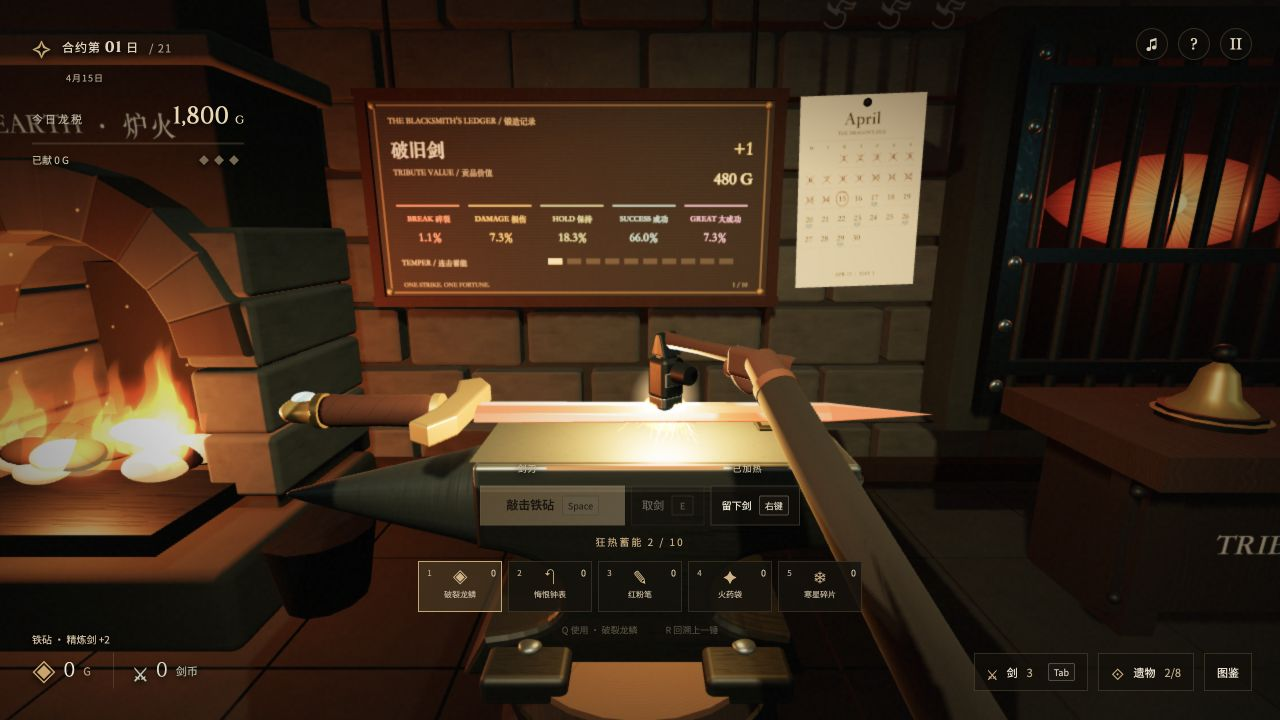
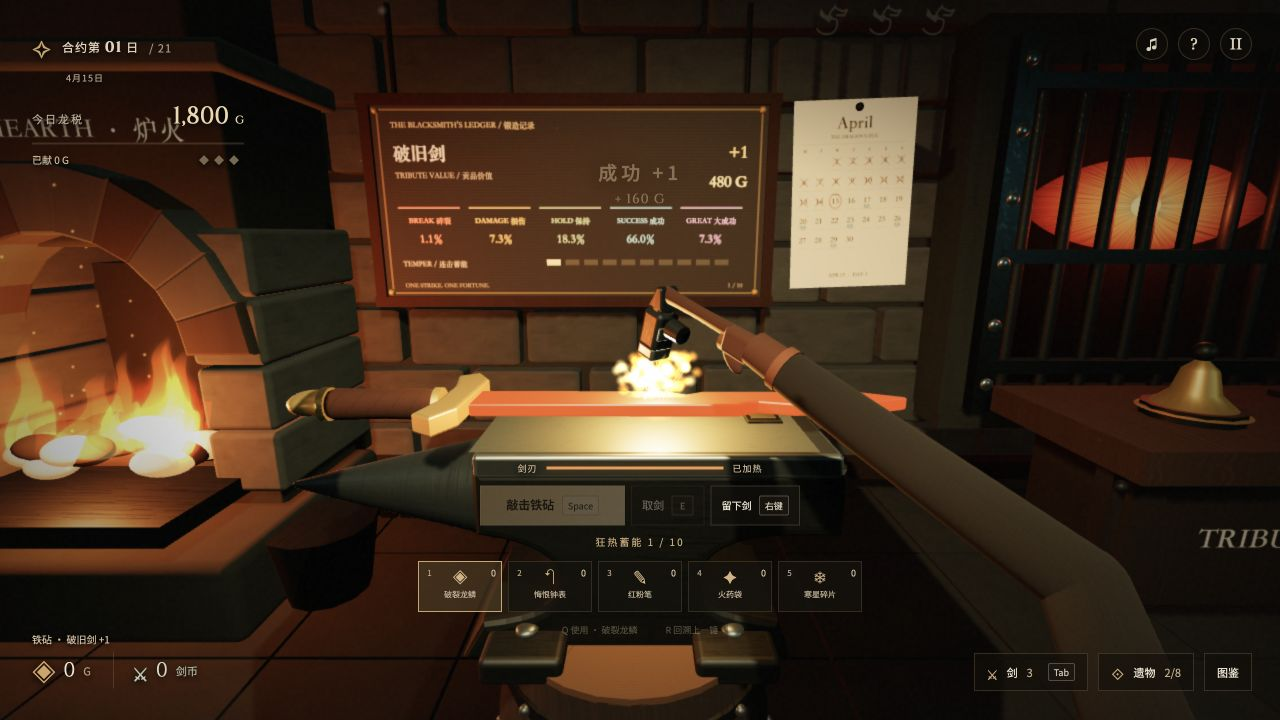
Use referenced forging strokes with fixed arm segments and a smaller rebound

diff --git a/src/workshop-motion.js b/src/workshop-motion.js
@@ -15,36 +15,63 @@ function blend(root, from, to, progress, arc=0) {
   root.quaternion.slerpQuaternions(from.quaternion,to.quaternion,t);root.scale.lerpVectors(from.scale,to.scale,t);
 }
 
-export function getHammerStrikePose({ camera, restPosition, restQuaternion, scale, origin, time, contact=.22, duration=.48 }) {
-  const rest=worldPose({parent:camera,position:restPosition,quaternion:restQuaternion,scale:new THREE.Vector3().setScalar(scale)});
+function hammerContactFrame(camera,origin,scale){
   const toPlayer=camera.getWorldPosition(new THREE.Vector3()).sub(origin);toPlayer.y=0;toPlayer.normalize();
   const right=new THREE.Vector3(1,0,0).applyQuaternion(camera.getWorldQuaternion(new THREE.Quaternion()));right.y=0;right.normalize();
   const toGrip=toPlayer.clone().addScaledVector(right,.85).normalize();
   const yaw=Math.atan2(-toGrip.z,toGrip.x),contactQuaternion=new THREE.Quaternion().setFromAxisAngle(new THREE.Vector3(0,1,0),yaw)
     .multiply(new THREE.Quaternion().setFromAxisAngle(new THREE.Vector3(0,0,1),Math.PI/2-HAMMER_HEAD.roll));
   const contactPosition=origin.clone().sub(HAMMER_FACE.clone().multiplyScalar(scale).applyQuaternion(contactQuaternion));
-  const gripOffset=q=>HAMMER_GRIP.clone().multiplyScalar(scale).applyQuaternion(q);
-  const restWrist=rest.position.clone().add(gripOffset(rest.quaternion)),contactWrist=contactPosition.clone().add(gripOffset(contactQuaternion));
-  const raisedWrist=restWrist.clone().addScaledVector(toPlayer,.045);raisedWrist.y=Math.max(restWrist.y+.14,contactWrist.y+.1);
-  const raisedQuaternion=new THREE.Quaternion().setFromAxisAngle(right,1.05).multiply(contactQuaternion);
-  let wrist,quaternion,clearance=0;
-  if(time<.1){const t=ease(time/.1);wrist=restWrist.clone().lerp(raisedWrist,t);quaternion=rest.quaternion.clone().slerp(raisedQuaternion,t);}
-  else if(time<contact){const t=ease((time-.1)/(contact-.1));wrist=raisedWrist.clone().lerp(contactWrist,t);quaternion=raisedQuaternion.clone().slerp(contactQuaternion,t);clearance=.025*(1-t);}
-  else if(time<contact+.04){wrist=contactWrist;quaternion=contactQuaternion;}
-  else {const t=ease((time-contact-.04)/(duration-contact-.04));wrist=contactWrist.clone().lerp(restWrist,t);wrist.y+=Math.sin(Math.PI*t)*.22;quaternion=contactQuaternion.clone().slerp(rest.quaternion,t);clearance=Math.sin(Math.PI*t)*.08;}
-  const position=wrist.sub(gripOffset(quaternion));
-  // Lift the complete head envelope, not just a nominal contact point.
-  const head=position.clone().add(new THREE.Vector3(...HAMMER_HEAD.position).multiplyScalar(scale).applyQuaternion(quaternion));
-  const nearBlade=ease((.55-Math.hypot(head.x-origin.x,head.z-origin.z))/.2);
-  position.y+=nearBlade*Math.max(0,origin.y+clearance-position.y-hammerHeadMinimumY(quaternion,scale));
-  camera.updateWorldMatrix(true,false);const matrix=new THREE.Matrix4().compose(position,quaternion,new THREE.Vector3().setScalar(scale)).premultiply(camera.matrixWorld.clone().invert());
-  const result={position:new THREE.Vector3(),quaternion:new THREE.Quaternion(),scale:new THREE.Vector3()};matrix.decompose(result.position,result.quaternion,result.scale);return result;
+  const contactWrist=contactPosition.clone().add(HAMMER_GRIP.clone().multiplyScalar(scale).applyQuaternion(contactQuaternion));
+  const armScale=Math.max(.75,Math.hypot(camera.position.x-origin.x,camera.position.z-origin.z)/1.87);
+  return {toGrip,contactQuaternion,contactWrist,armScale};
 }
 
-export function getHammerForearmPose(wristPosition,aspect){
-  const x=THREE.MathUtils.lerp(.4,.62,THREE.MathUtils.clamp((aspect-.9)/.65,0,1)),elbow=new THREE.Vector3(x,-.93,-.48);
-  const axis=wristPosition.clone().sub(elbow),length=axis.length();
-  return {wrist:wristPosition.clone(),elbow,length,quaternion:new THREE.Quaternion().setFromUnitVectors(new THREE.Vector3(0,1,0),axis.normalize())};
+function hammerWorkingPose({camera,scale,origin},angle,reach,lift){
+  const frame=hammerContactFrame(camera,origin,scale),axis=new THREE.Vector3(0,1,0).cross(frame.toGrip);
+  const quaternion=new THREE.Quaternion().setFromAxisAngle(axis,angle).multiply(frame.contactQuaternion);
+  const wrist=frame.contactWrist.addScaledVector(frame.toGrip,reach);wrist.y+=lift;
+  const position=wrist.sub(HAMMER_GRIP.clone().multiplyScalar(scale).applyQuaternion(quaternion));
+  // Protect the whole head envelope without flattening the stroke into a slide.
+  const head=position.clone().add(new THREE.Vector3(...HAMMER_HEAD.position).multiplyScalar(scale).applyQuaternion(quaternion));
+  const nearBlade=ease((.55-Math.hypot(head.x-origin.x,head.z-origin.z))/.2);
+  position.y+=nearBlade*Math.max(0,origin.y-position.y-hammerHeadMinimumY(quaternion,scale));
+  camera.updateWorldMatrix(true,false);const matrix=new THREE.Matrix4().compose(position,quaternion,new THREE.Vector3().setScalar(scale)).premultiply(camera.matrixWorld.clone().invert());
+  const result={position:new THREE.Vector3(),quaternion:new THREE.Quaternion(),scale:new THREE.Vector3(),armScale:frame.armScale};matrix.decompose(result.position,result.quaternion,result.scale);return result;
+}
+
+export function getHammerReadyPose(options){return hammerWorkingPose(options,.3,.025,.025);}
+
+export function getHammerStrikePose({camera,scale,origin,time,contact=.22,duration=.48}){
+  const options={camera,scale,origin};let angle,reach,lift;
+  const raise=contact*.38;
+  if(time<raise){const t=ease(time/raise);angle=.3+.6*t;reach=.025+.02*t;lift=.025+.035*t;}
+  else if(time<contact){
+    // Acceleration into contact, rather than a smoothstep that stops before impact.
+    const t=THREE.MathUtils.clamp((time-raise)/(contact-raise),0,1),remaining=1-t*t;
+    angle=.9*remaining;reach=.045*remaining;lift=.06*remaining;
+  }else{
+    const rebound=Math.min(.09,(duration-contact)*.4);
+    if(time<contact+rebound){const t=THREE.MathUtils.clamp((time-contact)/rebound,0,1),up=1-(1-t)*(1-t);angle=.38*up;reach=.03*up;lift=.03*up;}
+    else {const t=ease((time-contact-rebound)/(duration-contact-rebound));angle=.38-.08*t;reach=.03-.005*t;lift=.03-.005*t;}
+  }
+  return hammerWorkingPose(options,angle,reach,lift);
+}
+
+export function getHammerForearmPose(wristPosition,aspect,armScale=1){
+  // Perspective pullback changes view-model calibration, never a bone's length
+  // during a stroke. The elbow bends; the sleeve does not telescope.
+  const x=THREE.MathUtils.lerp(.4,.7,THREE.MathUtils.clamp((aspect-.9)/.65,0,1));
+  const shoulder=new THREE.Vector3(x,-1.05,-.46).multiplyScalar(armScale),length=.72*armScale,upperLength=.82*armScale;
+  const delta=wristPosition.clone().sub(shoulder),distance=delta.length(),axis=delta.clone().normalize();
+  const reach=THREE.MathUtils.clamp(distance,Math.abs(upperLength-length)+1e-5,upperLength+length-1e-5);
+  if(distance!==reach)shoulder.addScaledVector(axis,distance-reach);
+  const along=(upperLength*upperLength-length*length+reach*reach)/(2*reach),height=Math.sqrt(Math.max(0,upperLength*upperLength-along*along));
+  const pole=new THREE.Vector3(1,-.08,.3);pole.addScaledVector(axis,-pole.dot(axis)).normalize();
+  const elbow=shoulder.clone().addScaledVector(axis,along).addScaledVector(pole,height);
+  const forearmAxis=wristPosition.clone().sub(elbow).normalize(),upperAxis=elbow.clone().sub(shoulder).normalize(),up=new THREE.Vector3(0,1,0);
+  return {wrist:wristPosition.clone(),elbow,shoulder,length,upperLength,
+    quaternion:new THREE.Quaternion().setFromUnitVectors(up,forearmAxis),upperQuaternion:new THREE.Quaternion().setFromUnitVectors(up,upperAxis)};
 }
 
 export function getTicketFocusView(aspect, fov=66, sidePanel=false) {

diff --git a/src/workshop.js b/src/workshop.js
@@ -2,7 +2,7 @@ import * as THREE from 'three';
 import { RoundedBoxGeometry } from 'three/addons/geometries/RoundedBoxGeometry.js';
 import { createMouseLook } from './mouse-look.js';
 import { createTouchMovement } from './touch-movement.js';
-import { createWorkshopMotion, getHammerStrikePose, getHammerForearmPose, getTicketFocusView, getHeldSwordPose } from './workshop-motion.js';
+import { createWorkshopMotion, getHammerReadyPose, getHammerStrikePose, getHammerForearmPose, getTicketFocusView, getHeldSwordPose } from './workshop-motion.js';
 import { createShadowAvatar } from './shadow-avatar.js';
 import { createTicketBoard } from './ticket-board.js';
 import { createSwordRenderer } from './sword-renderer.js';
@@ -553,7 +553,11 @@ export function createWorkshop(container, callbacks = {}) {
   const sleeve = material({ color: '#353b38', map: woodTexture, roughness: 1 });
   const cuff = cylinder(forearmGroup, sleeve, .082 * .68, .104 * .68, 1, 0, 0, 0, 20);
   const wristBand = cylinder(forearmGroup, leather, .086 * .68, .087 * .68, 1, 0, 0, 0, 20);
+  const upperArmGroup = new THREE.Group(); camera.add(upperArmGroup);
+  const upperSleeve = cylinder(upperArmGroup, sleeve, .104 * .68, .13 * .68, 1, 0, 0, 0, 20);
+  const elbowJoint = sphere(upperArmGroup, sleeve, 0, 0, 0, .104 * .68); elbowJoint.castShadow = true; elbowJoint.receiveShadow = true;
   const wristPosition = new THREE.Vector3();
+  let hammerReadyBlend = 0, readyContact = null;
   hammer.position.set(.56, -.47, -.82); hammer.rotation.set(.1, -.3, -.44); hammer.scale.setScalar(.68);
   const toolFill = new THREE.PointLight('#dcc6a3', 1.5, 2.3, 1.8); toolFill.position.set(-.15, .2, -.15); camera.add(toolFill);
 
@@ -877,20 +881,46 @@ export function createWorkshop(container, callbacks = {}) {
     const toolX = THREE.MathUtils.lerp(.2, .43, THREE.MathUtils.clamp((camera.aspect - .9) / .65, 0, 1));
     hammer.position.set(toolX, -.43, -.99); hammer.rotation.set(.1, -.3, -.44);
     const swing = motion.getStrike();
-    if (swing && swing.outcome !== 'break' && swing.time >= swing.contact && swing.time < swing.contact + .04) {
+    if (swing && swing.outcome !== 'break' && swing.time >= swing.contact && swing.time <= swing.contact + .025) {
       const anvilSword = physicalSwords.get(worldState?.anvilId)?.mesh;
       const surface = findForgeContact(anvilSword || (!worldState && swordState ? swordGroup : null), { bladeMaterials: anvilSword ? null : [bladeMaterial, edgeMaterial, fullerMaterial] });
       if (surface) swing.position.copy(surface.position);
     }
-    if (swing) { const pose = getHammerStrikePose({ camera, restPosition: hammer.position, restQuaternion: hammer.quaternion, scale: .68, origin: swing.position, time: swing.time, contact: swing.contact, duration: swing.duration }); hammer.position.copy(pose.position); hammer.quaternion.copy(pose.quaternion); }
-    forearmGroup.visible = hammer.visible;
+    const forgeMode = focused === 'anvil';
+    hammerReadyBlend = forgeMode ? Math.min(1, hammerReadyBlend + dt / .18) : 0;
+    if (!forgeMode) readyContact = null;
+    let armScale = 1;
+    if (swing || forgeMode) {
+      const anvilSword = physicalSwords.get(worldState?.anvilId)?.mesh;
+      let readyPosition;
+      if (!swing && anvilSword) {
+        // Static solid geometry changes only when its visual is replaced. Cache
+        // the local surface during ready frames; every strike still raycasts fresh.
+        if (readyContact?.root !== anvilSword || readyContact.visual !== anvilSword.userData.visual) {
+          const surface = findForgeContact(anvilSword);
+          readyContact = { root: anvilSword, visual: anvilSword.userData.visual, localPoint: surface?.localPoint };
+        }
+        if (readyContact.localPoint) { anvilSword.updateWorldMatrix(true, false); readyPosition = anvilSword.localToWorld(readyContact.localPoint.clone()); }
+      } else if (!swing && !worldState && swordState) readyPosition = findForgeContact(swordGroup, { bladeMaterials: [bladeMaterial, edgeMaterial, fullerMaterial] })?.position;
+      const origin = swing?.position || readyPosition || wornFace.getWorldPosition(new THREE.Vector3());
+      const pose = swing ? getHammerStrikePose({ camera, scale: .68, origin, time: swing.time, contact: swing.contact, duration: swing.duration }) : getHammerReadyPose({ camera, scale: .68, origin });
+      const entryBlend = forgeMode ? hammerReadyBlend : 1;
+      hammer.position.lerp(pose.position, entryBlend); hammer.quaternion.slerp(pose.quaternion, entryBlend);
+      armScale = pose.armScale ?? 1;
+      if (swing) { swing.armScale ??= armScale; armScale = swing.armScale; }
+    }
+    forearmGroup.visible = upperArmGroup.visible = hammer.visible;
     if (forearmGroup.visible) {
       hammer.updateWorldMatrix(true, true); wristMarker.getWorldPosition(wristPosition); camera.worldToLocal(wristPosition);
-      const forearm = getHammerForearmPose(wristPosition, camera.aspect), gloveLength = Math.min(.11, forearm.length), sleeveLength = Math.max(.001, forearm.length - gloveLength);
+      const forearm = getHammerForearmPose(wristPosition, camera.aspect, armScale), gloveLength = Math.min(.11, forearm.length), sleeveLength = Math.max(.001, forearm.length - gloveLength);
+      const radiusScale = Math.min(1.12, armScale);
       forearmGroup.position.copy(forearm.wrist); forearmGroup.quaternion.copy(forearm.quaternion);
-      wrist.position.y = -gloveLength / 2; wrist.scale.y = gloveLength;
-      cuff.position.y = -gloveLength - sleeveLength / 2; cuff.scale.y = sleeveLength;
-      wristBand.position.y = -gloveLength; wristBand.scale.y = .042 * .68;
+      wrist.position.y = -gloveLength / 2; wrist.scale.set(radiusScale, gloveLength, radiusScale);
+      cuff.position.y = -gloveLength - sleeveLength / 2; cuff.scale.set(radiusScale, sleeveLength, radiusScale);
+      wristBand.position.y = -gloveLength; wristBand.scale.set(radiusScale, .042 * .68, radiusScale);
+      upperArmGroup.position.copy(forearm.elbow); upperArmGroup.quaternion.copy(forearm.upperQuaternion);
+      upperSleeve.position.y = -forearm.upperLength / 2; upperSleeve.scale.set(radiusScale, forearm.upperLength, radiusScale);
+      elbowJoint.scale.setScalar(.104 * .68 * radiusScale);
     }
     avatar.update({ camera, heldRoot: physicalSwords.get(worldState?.carriedId)?.mesh, hammerRoot: hammer, time: elapsed, walking });
     bodyLight.position.set(THREE.MathUtils.clamp(camera.position.x + (camera.position.x > 0 ? 1.7 : -1.7), -5.5, 5.5), 3.7, THREE.MathUtils.clamp(camera.position.z + (camera.position.z > .5 ? 1.7 : -1.7), -3.45, 4.99)); bodyLight.target.position.set(camera.position.x, .65, camera.position.z);
@@ -932,6 +962,7 @@ export function createWorkshop(container, callbacks = {}) {
   frame = requestAnimationFrame(animate);
   function dispose() {
     if (disposed) return; disposed = true; cancelAnimationFrame(frame); lookInput.dispose(); touchInput.dispose(); observer.disconnect(); listeners.forEach(remove => remove());
+    readyContact = null;
     motion.dispose(); avatar.dispose(); ticketBoard.dispose(); bodyLight.shadow.map?.dispose(); key.shadow.map?.dispose();
     swordPhysics.dispose(); physicalSwords.forEach(entry => swordRenderer.disposeInstance(entry.mesh)); clearMerchantGoods(); swordRenderer.dispose(); relicShop.dispose();
     geometries.forEach(g => g.dispose()); materials.forEach(m => m.dispose()); textures.forEach(disposeTexture); renderer.dispose(); canvas.remove(); contextNotice.remove();

diff --git a/tests/workshop-motion.test.js b/tests/workshop-motion.test.js
@@ -2,7 +2,7 @@ import test from 'node:test';
 import assert from 'node:assert/strict';
 import * as THREE from 'three';
 import {RoundedBoxGeometry} from 'three/addons/geometries/RoundedBoxGeometry.js';
-import { createWorkshopMotion, getHammerStrikePose, getHammerForearmPose, getTicketFocusView, getHeldSwordPose } from '../src/workshop-motion.js';
+import { createWorkshopMotion, getHammerReadyPose, getHammerStrikePose, getHammerForearmPose, getTicketFocusView, getHeldSwordPose } from '../src/workshop-motion.js';
 import {HAMMER_HEAD,HAMMER_FACE,HAMMER_WRIST} from '../src/hammer-frame.js';
 const pose = (parent, x, y=0, z=0) => ({ parent, position:new THREE.Vector3(x,y,z), quaternion:new THREE.Quaternion(), scale:new THREE.Vector3(1,1,1) });
 
@@ -58,12 +58,11 @@ test('the actual left hammer face points down at contact and the gripped hand st
   const grip=new THREE.Vector3(.055,-.205,.067).applyMatrix4(hammer.matrixWorld);
   assert.ok(grip.y>origin.y+.18,'hand and handle do not disappear into the anvil');
 });
-test('a thick sword does not cause the camera-held hammer to jump at the start or end of a swing',()=>{
+test('thin and thick swords start and finish at the same forging ready pose without a jump',()=>{
   const camera=new THREE.PerspectiveCamera();camera.position.set(-1.05,2.22,.95);camera.lookAt(-1.05,1.51,-2.1);
-  const restPosition=new THREE.Vector3(.43,-.43,-.99),restQuaternion=new THREE.Quaternion().setFromEuler(new THREE.Euler(.1,-.3,-.44));
-  for(const time of [0,.48]){
-    const pose=getHammerStrikePose({camera,restPosition,restQuaternion,scale:.68,origin:new THREE.Vector3(-.96,1.75,-.92),time});
-    assert.ok(pose.position.distanceTo(restPosition)<1e-7,'rest pose outside the anvil retains its position');assert.ok(pose.quaternion.angleTo(restQuaternion)<1e-7);
+  for(const y of [1.61,1.75])for(const time of [0,.48]){
+    const options={camera,scale:.68,origin:new THREE.Vector3(-.96,y,-.92)},ready=getHammerReadyPose(options),pose=getHammerStrikePose({...options,time});
+    assert.ok(pose.position.distanceTo(ready.position)<1e-7,'swing starts and finishes at the current blade working pose');assert.ok(pose.quaternion.angleTo(ready.quaternion)<1e-7);
   }
 });
 test('rounded hammer head and gripping hand stay clear of the anvil throughout desktop and portrait swings',()=>{
@@ -74,7 +73,7 @@ test('rounded hammer head and gripping hand stay clear of the anvil throughout d
     {g:new RoundedBoxGeometry(.125,.185,.085,3,.034),p:new THREE.Vector3(.055,-.205,.067),roll:-.13}
   ];
   const point=new THREE.Vector3();
-  for(const [z,toolX] of [[.95,.43],[3.3,.2]])for(const y of [1.61,1.75]){
+  for(const [z,toolX] of [[.95,.43],[3.3,.2],[4.18,.2]])for(const y of [1.61,1.75]){
     const camera=new THREE.PerspectiveCamera();camera.position.set(-1.05,2.22,z);camera.lookAt(-1.05,1.51,-2.1);camera.updateMatrixWorld();
     for(let frame=0;frame<=48;frame++){
       const t=frame/100,pose=getHammerStrikePose({camera,restPosition:new THREE.Vector3(toolX,-.43,-.99),restQuaternion:new THREE.Quaternion().setFromEuler(new THREE.Euler(.1,-.3,-.44)),scale:.68,origin:new THREE.Vector3(-.96,y,-.92),time:t});
@@ -94,20 +93,24 @@ test('rounded hammer head and gripping hand stay clear of the anvil throughout d
   }
   parts.forEach(part=>part.g.dispose());
 });
-test('independent forearm connects to the animated wrist and clears the anvil while its elbow stays offscreen',()=>{
-  const sleeve=new THREE.CylinderGeometry(.082,.104,1,20),point=new THREE.Vector3();
-  for(const [aspect,toolX,z] of [[1280/720,.43,.95],[360/800,.2,3.3]]){
+test('articulated forearm and upper arm connect at the elbow and clear the anvil while the shoulder stays offscreen',()=>{
+  const sleeve=new THREE.CylinderGeometry(.104,.13,1,20),point=new THREE.Vector3();
+  for(const [aspect,toolX,z] of [[1280/720,.43,.95],[360/800,.2,4.18]]){
     const camera=new THREE.PerspectiveCamera(66,aspect,.045,60);camera.position.set(-1.05,2.22,z);camera.lookAt(-1.05,1.51,-2.1);camera.updateMatrixWorld();
     for(let frame=0;frame<=48;frame++){
       const pose=getHammerStrikePose({camera,restPosition:new THREE.Vector3(toolX,-.43,-.99),restQuaternion:new THREE.Quaternion().setFromEuler(new THREE.Euler(.1,-.3,-.44)),scale:.68,origin:new THREE.Vector3(-.96,1.75,-.92),time:frame/100});
-      const wrist=HAMMER_WRIST.clone().applyMatrix4(new THREE.Matrix4().compose(pose.position,pose.quaternion,pose.scale)),arm=getHammerForearmPose(wrist,aspect);
-      const middle=arm.wrist.clone().add(arm.elbow).multiplyScalar(.5),matrix=new THREE.Matrix4().compose(middle,arm.quaternion,new THREE.Vector3(.68,arm.length,.68));
-      assert.ok(new THREE.Vector3(0,.5,0).applyMatrix4(matrix).distanceTo(wrist)<1e-6,'upper endpoint follows actual hand');
-      const elbow=arm.elbow.clone().applyMatrix4(camera.matrixWorld).project(camera);assert.ok(elbow.y< -1,'sleeve end is below viewport');
-      matrix.premultiply(camera.matrixWorld);
-      for(let i=0;i<sleeve.attributes.position.count;i++){
-        point.fromBufferAttribute(sleeve.attributes.position,i).applyMatrix4(matrix);
-        if(point.x> -1.575&&point.x<-.355&&point.z> -1.1875&&point.z<-.6525)assert.ok(point.y>=1.508,'forearm stays above anvil where their volumes overlap');
+      const wrist=HAMMER_WRIST.clone().applyMatrix4(new THREE.Matrix4().compose(pose.position,pose.quaternion,pose.scale)),arm=getHammerForearmPose(wrist,aspect,pose.armScale);
+      assert.ok(Math.abs(arm.wrist.distanceTo(arm.elbow)-arm.length)<1e-6,'forearm maintains its physical length');
+      assert.ok(Math.abs(arm.shoulder.distanceTo(arm.elbow)-arm.upperLength)<1e-6,'upper arm maintains its physical length');
+      const shoulder=arm.shoulder.clone().applyMatrix4(camera.matrixWorld).project(camera);assert.ok(shoulder.y< -1,'upper sleeve continues below viewport');
+      for(const [start,end,quaternion,length] of [[arm.wrist,arm.elbow,arm.quaternion,arm.length],[arm.elbow,arm.shoulder,arm.upperQuaternion,arm.upperLength]]){
+        const radiusScale=Math.min(1.12,pose.armScale),middle=start.clone().add(end).multiplyScalar(.5),matrix=new THREE.Matrix4().compose(middle,quaternion,new THREE.Vector3(.68*radiusScale,length,.68*radiusScale));
+        assert.ok(new THREE.Vector3(0,.5,0).applyMatrix4(matrix).distanceTo(start)<1e-6,'upper endpoint follows its joint');
+        matrix.premultiply(camera.matrixWorld);
+        for(let i=0;i<sleeve.attributes.position.count;i++){
+          point.fromBufferAttribute(sleeve.attributes.position,i).applyMatrix4(matrix);
+          if(point.x> -1.575&&point.x<-.355&&point.z> -1.1875&&point.z<-.6525)assert.ok(point.y>=1.508,'arm stays above anvil where their volumes overlap');
+        }
       }
     }
   }

diff --git a/tests/hammer-rhythm.test.js b/tests/hammer-rhythm.test.js
@@ -1,0 +1,42 @@
+import test from 'node:test';
+import assert from 'node:assert/strict';
+import * as THREE from 'three';
+import {getHammerStrikePose,getHammerForearmPose} from '../src/workshop-motion.js';
+import {HAMMER_FACE,HAMMER_WRIST} from '../src/hammer-frame.js';
+
+function setup(aspect=1280/720,z=.95){
+  const camera=new THREE.PerspectiveCamera(66,aspect,.045,60);camera.position.set(-1.05,2.22,z);camera.lookAt(-1.05,1.51,-2.1);camera.updateMatrixWorld();
+  const origin=new THREE.Vector3(-.96,1.62,-.92);
+  const frame=time=>{
+    const pose=getHammerStrikePose({camera,restPosition:new THREE.Vector3(.43,-.43,-.99),restQuaternion:new THREE.Quaternion().setFromEuler(new THREE.Euler(.1,-.3,-.44)),scale:.68,origin,time});
+    const local=new THREE.Matrix4().compose(pose.position,pose.quaternion,pose.scale);
+    const wrist=HAMMER_WRIST.clone().applyMatrix4(local),face=HAMMER_FACE.clone().applyMatrix4(local).applyMatrix4(camera.matrixWorld);
+    return {pose,wrist,face,arm:getHammerForearmPose(wrist,aspect,pose.armScale)};
+  };
+  return {frame,origin,camera};
+}
+
+test('forging forearm keeps its length instead of stretching as the hand reaches the blade',()=>{
+  for(const [aspect,z] of [[1280/720,.95],[360/800,4.18]]){
+    const {frame}=setup(aspect,z),lengths=Array.from({length:49},(_,i)=>frame(i/100).arm.length);
+    assert.ok(Math.max(...lengths)-Math.min(...lengths)<1e-5,'forearm is a rigid segment throughout the swing');
+  }
+});
+
+test('a strike accelerates into the blade and rebounds without parking on its surface',()=>{
+  const {frame,origin}=setup();
+  assert.ok(frame(.22).face.distanceTo(frame(.219).face)>.001,'last millisecond still has downward impact speed');
+  assert.ok(frame(.244).face.y>origin.y+.012,'the hammer has already lifted 24ms after contact');
+  const liftHeight=Math.max(...Array.from({length:22},(_,i)=>frame(i/100).face.y))-origin.y;
+  const reboundHeight=Math.max(...Array.from({length:26},(_,i)=>frame(.22+i/100).face.y))-origin.y;
+  assert.ok(reboundHeight<liftHeight*.65,'rebound is a smaller motion than the intentional windup');
+});
+
+test('forging stays in the working reach with no large idle-to-contact twist',()=>{
+  const {frame}=setup(),contact=frame(.22);
+  for(let i=0;i<=48;i++){
+    const current=frame(i/100);
+    assert.ok(current.wrist.distanceTo(contact.wrist)<.19,'hand moves locally rather than lunging out of the lower right corner');
+    assert.ok(current.pose.quaternion.angleTo(contact.pose.quaternion)<1.2,'hammer swings through a compact stroke instead of rotating 120 degrees');
+  }
+});

diff --git a/docs/hammer-motion-references.md b/docs/hammer-motion-references.md
@@ -1,0 +1,49 @@
+# 单手锤击参考与证据边界
+
+核对日期：2026-10-13。用于调整第一人称挥锤的握柄、抬落与回程。
+
+优先看下面三个原发布者来源。前两个已下载公开原视频，用 FFmpeg 连续抽帧并实际查看；第三个由主线程打开播放器并定位章节。抽帧可以确认姿势变化和动作顺序，不能单凭这些图测出关节精确角度、握力或被动回弹的贡献。
+
+## 1. 巴西现场：短片中的连续单手锤击
+
+- 原发布者：Eugenio Hansen, OFS。2015-09-13 拍摄；[原文件页](https://commons.wikimedia.org/wiki/File:Acampamento_Farroupilha,_Parque_da_Harmonia,_Porto_Alegre,_Brasil_2015_17.webm)标明作者本人拍摄与上传，片长 31.689 秒。
+- [公开视频直链](https://upload.wikimedia.org/wikipedia/commons/a/ac/Acampamento_Farroupilha%2C_Parque_da_Harmonia%2C_Porto_Alegre%2C_Brasil_2015_17.webm)。无需 YouTube 播放器。
+- **已查看区间：00:01–00:03**，8 帧/秒，按顺序查看 16 帧。适合先看整个 32 秒短片，再重复这一段。
+
+画面可确认：右手持锤，左手用钳固定发亮的工件。抬锤时，握柄手与前臂一起上移，肘的弯曲随之改变；不是把手固定在一个空间点，仅绕腕旋转锤子。落下时锤头到达铁砧上的工件，握柄手仍在工作面上方。随后锤头再次抬起，连续帧里没有长时间压住工件的姿态。
+
+这段是侧前方视角，能比较锤头与手的相对高度。光线较暗，右侧旁观者也遮住部分画面；**不能确认每根手指的握法、拇指位置、精确接触帧或回程有多少来自自然弹起**。
+
+## 2. 芬兰博物馆：较完整的手臂与工作台关系
+
+- 原发布机构：Sounds of Changes / Työväenmuseo Werstas；声、照片与视频作者 Antti Makkonen，2018-07-15 在 Möhkön Ruukki 拍摄。[原发布页](https://www.soundsofchanges.eu/sound/3083/)明确说明记录加热、锤砧塑形和风箱过程。
+- [公开视频直链](https://upload.wikimedia.org/wikipedia/commons/b/b3/Blacksmith_Working_at_M%C3%B6hk%C3%B6n_Ruukki.webm)，视频约 3:57；[对应文件及来源记录](https://commons.wikimedia.org/wiki/File:Blacksmith_Working_at_M%C3%B6hk%C3%B6n_Ruukki.webm)。这是原发布视频的公开副本，不依赖 YouTube 登录。
+- **已查看锤击区间：02:42–02:59**；其中 **02:43–02:45** 用 12 帧/秒连续查看 24 帧。此前较长一段在炉前操作，研究挥锤可直接跳到上述区间。
+
+画面可确认：一手固定工件、一手单独挥锤。握柄手在接触附近仍高于锤面；手掌、腕、前臂和肘在抬落过程中共同改变位置。锤头往复移动，接触附近之后再次抬起；前臂的方向跟着手的位置变化，不能把整条前臂视作与锤子完全同角度旋转的直杆。较宽的画面同时保留身体、铁砧与手臂，适合核对手是否不合理地下穿工作面。
+
+**边界：**没有逐帧识别手指的夹持压力，也没有音画同步测量；不从这段帧序列推出统一的挥锤周期、接触停留毫秒数或手腕旋转角度。拍摄者的说明能确认记录的工序，但具体动作结论来自上面的实际帧序列。
+
+## 3. 绿川千代：原作者锻打入门教学
+
+- 原作者：绿川千代，2024-01-01 发布。[《从零开始的打铁教学【2】——我流锻打派入门》](https://www.bilibili.com/video/BV1pC4y1i7pf/)，约 25:31。[原作者合集条目与说明](https://www.bilibili.com/list/1786813?bvid=BV1pC4y1i7pf&oid=793111838)说明由作者撰写较长的锻打教学文案，不是海外视频搬运。
+- **主线程已确认观看入口：01:30–04:25，「发力方式」章节。**这是播放器实际定位结果，不是依据标题猜测的时间戳。仅播放了开头预览；跳到章节后播放器要求登录，未据此推定整段动作。
+- 适合补核：握柄手的位置、抬锤由哪些关节配合、落下与回程如何衔接。
+
+**边界：**本研究 lane 只独立核对了作者、原投稿链接和作者说明，没有独立观看或抽取该段视频帧；因此这里不写具体的握法、腕角或回弹结论。上述待核项目不是已经观察到的事实。
+
+## 原作者文字提供的额外约束
+
+Crossed Heart Forge 的[《You Need A Japanese Swordsmith’s Hammer》](https://islandblacksmith.ca/2013/04/why-you-need-a-japanese-swordsmiths-hammer/)说明：锤面与柄的相对角度需要配合铁砧高度；角度或头部长度过大，会使击打时手的位置过低，反之会使肩部抬高。作者也说明较小的锤面适合窄刃目标，以免刀刃变薄时误击铁砧。
+
+这些是作者文字确认的设计关系，**不是已观看该站视频后测得的数据**。它们支持同时核对手的位置与锤面接触，而不能用“锤面碰到了工件”单独判定姿势自然。
+
+## 已找到但未作为动作证据的视频
+
+以下三个都是原发布频道的教学视频；公开标题、作者和说明可读取，但本轮工具无法呈现视频帧或字幕，主线程的 YouTube 播放器也遇到登录确认。没有据此声称看过具体抬落或回弹动作，也不伪造对应章节时间。
+
+- [Black Bear Forge：Hammer technique and blacksmiths elbow preventioin](https://www.youtube.com/watch?v=ivmXu5jr-JI)，2018-03-03。作者说明讨论锤重和肘部问题，未取得动作分段时间。
+- [Sam Towns, Bladesmith：Hammer technique: How to keep swinging for years to come!](https://www.youtube.com/watch?v=9hYDcySEFsQ)，2019-11-12。作者说明分享自己的锤击方式，未取得可验证的动作片段。
+- [DF – In The Shop：Blacksmithing for Beginners – Basic Hammering Techniques](https://www.youtube.com/watch?v=J46hnxQ4HBA)，2017-01-26。作者说明覆盖锻造所需的基础锤击技术，未取得逐帧或字幕证据。
+
+本项目只保留链接与观察记录。公开原视频和抽帧证据放在本地发布证据目录，不作为游戏素材分发。

diff --git a/docs/workshop-feedback.md b/docs/workshop-feedback.md
@@ -17,7 +17,8 @@
 - 拾剑、放下、落砧、上架和摆贡台沿平滑轨迹过渡，保持同一个模型根节点；相机移动时手持目的位置随相机更新。
 - 加热先插剑、渐热、抽出；仅铁、钢、锈蚀金属烧红，木、骨、魔力材质保留自身颜色。抽出之后金属持续红热，真实游戏热量仍只有原来的 0／100 两种状态。
 - 锤击在 220ms 接触剑刃，同时产生火星、光闪、声音和结果；进化和碎裂画面也到接触时更新。游戏结果先计算并存储一次，视觉延迟不产生额外随机抽签。
-- 挥锤围绕握点抬起、落下与回收，用锤头端面接触实际剑刃。前臂独立连接手腕与屏外肘部，锤头、手掌和袖管在挥动过程中避开铁砧。落点按剑的当前网格查询；命中时进化会重新查询新形态表面，火星与接触停留也跟随新表面。
+- 铁砧使用独立锻造待机姿势，进入时平滑举锤。抬锤、加速落下与短促回弹沿同一挥动平面衔接，接触后立即抬离剑面。手臂通过肘关节弯曲，上臂和前臂在一次挥锤中保持固定长度；手机拉远视角只改变入站时的模型校准，袖管宽度保持与握锤手相称。
+- 用锤头端面接触实际剑刃，锤头、手掌和两段袖管在挥动过程中避开铁砧。命中时进化会重新查询新形态表面，火星与初始回弹也跟随新表面；待机帧缓存静态剑面的局部落点，避免每帧重新射线遍历整个模型。参考视频与观测范围见 [单手锤击参考](hammer-motion-references.md)。
 - 动画总时长根据现有挥锤间隔缩短，最快握柄／风箱组合不会被视觉 busy 延长。
 - 阴影有头、躯干、围裙、双腿和双臂；手臂与真实持剑、挥锤姿态关联。身体不写入第一人称颜色或深度画面，使用独立深度材质投影。
 - 手机继续使用 DPR ≤1.5、主阴影 512；完整身体使用局部 256 阴影和少量几何，火星不增加阴影光源。

diff --git a/README.md b/README.md
@@ -10,7 +10,11 @@
 
 ![Dwarf Forge 桌面工坊与主菜单](docs/screenshots/workshop.jpg)
 
-挥锤锻造：锤头端面落在剑刃上，手腕和前臂随动作抬起、接触与回收；进化时落点跟随新的剑形态。
+挥锤锻造：锤头端面落在剑刃上，手腕与肘部配合抬锤、加速落下和短促回弹；两段手臂保持固定长度，进化时落点跟随新的剑形态。[动作参考视频与观测记录](docs/hammer-motion-references.md)。
+
+实际工坊渲染的连续挥锤演示：
+
+![连续挥锤：稳定工作姿势、加速敲击和短促回弹](docs/screenshots/hammer-motion.gif)
 
 ![锤头击中热剑，前臂从手腕延伸至画面右下方](docs/screenshots/hammer-strike.jpg)
 
